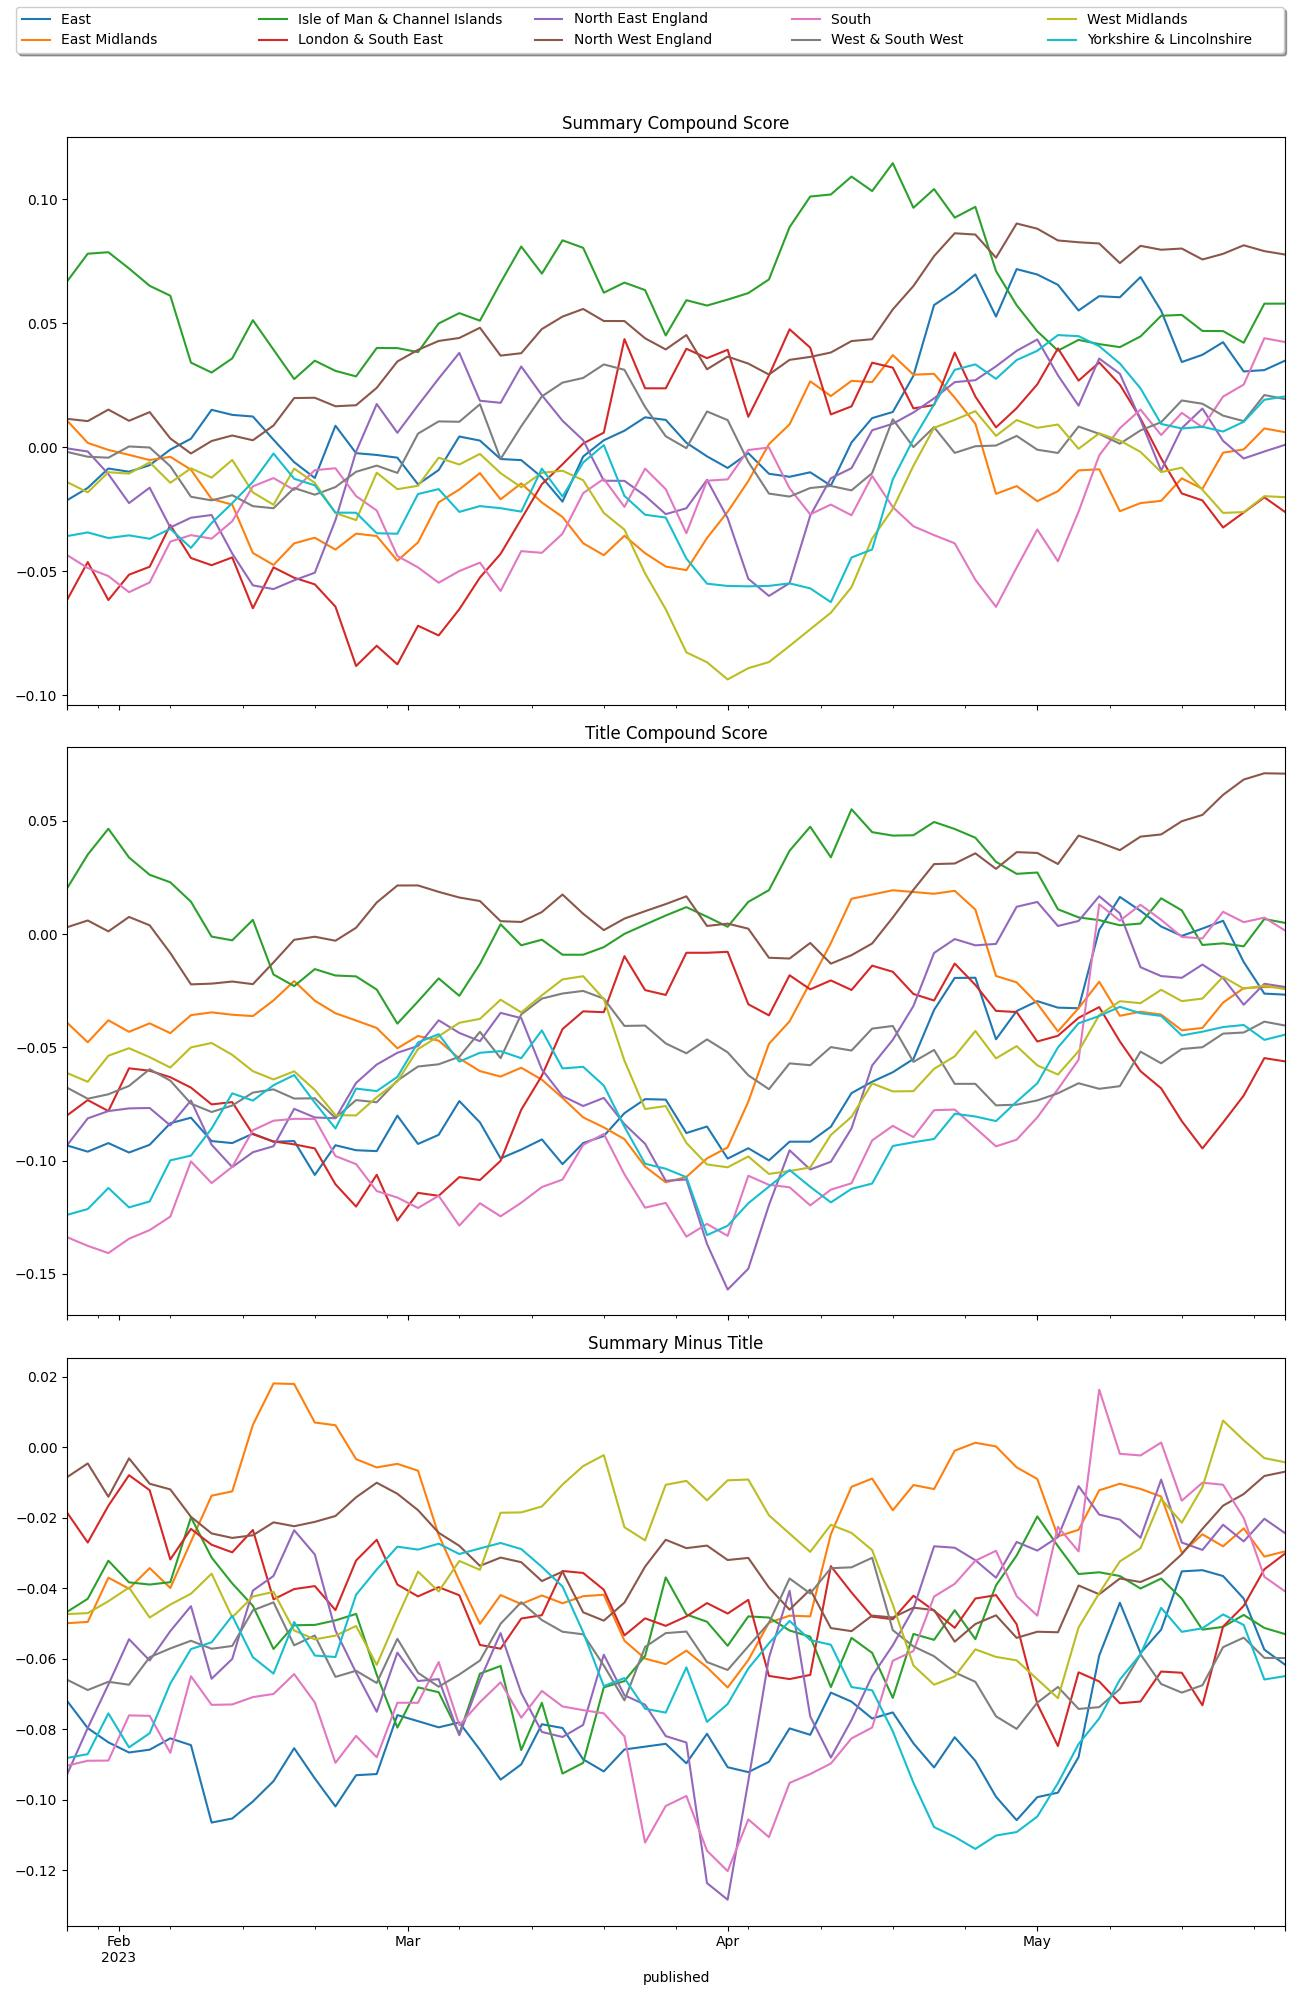
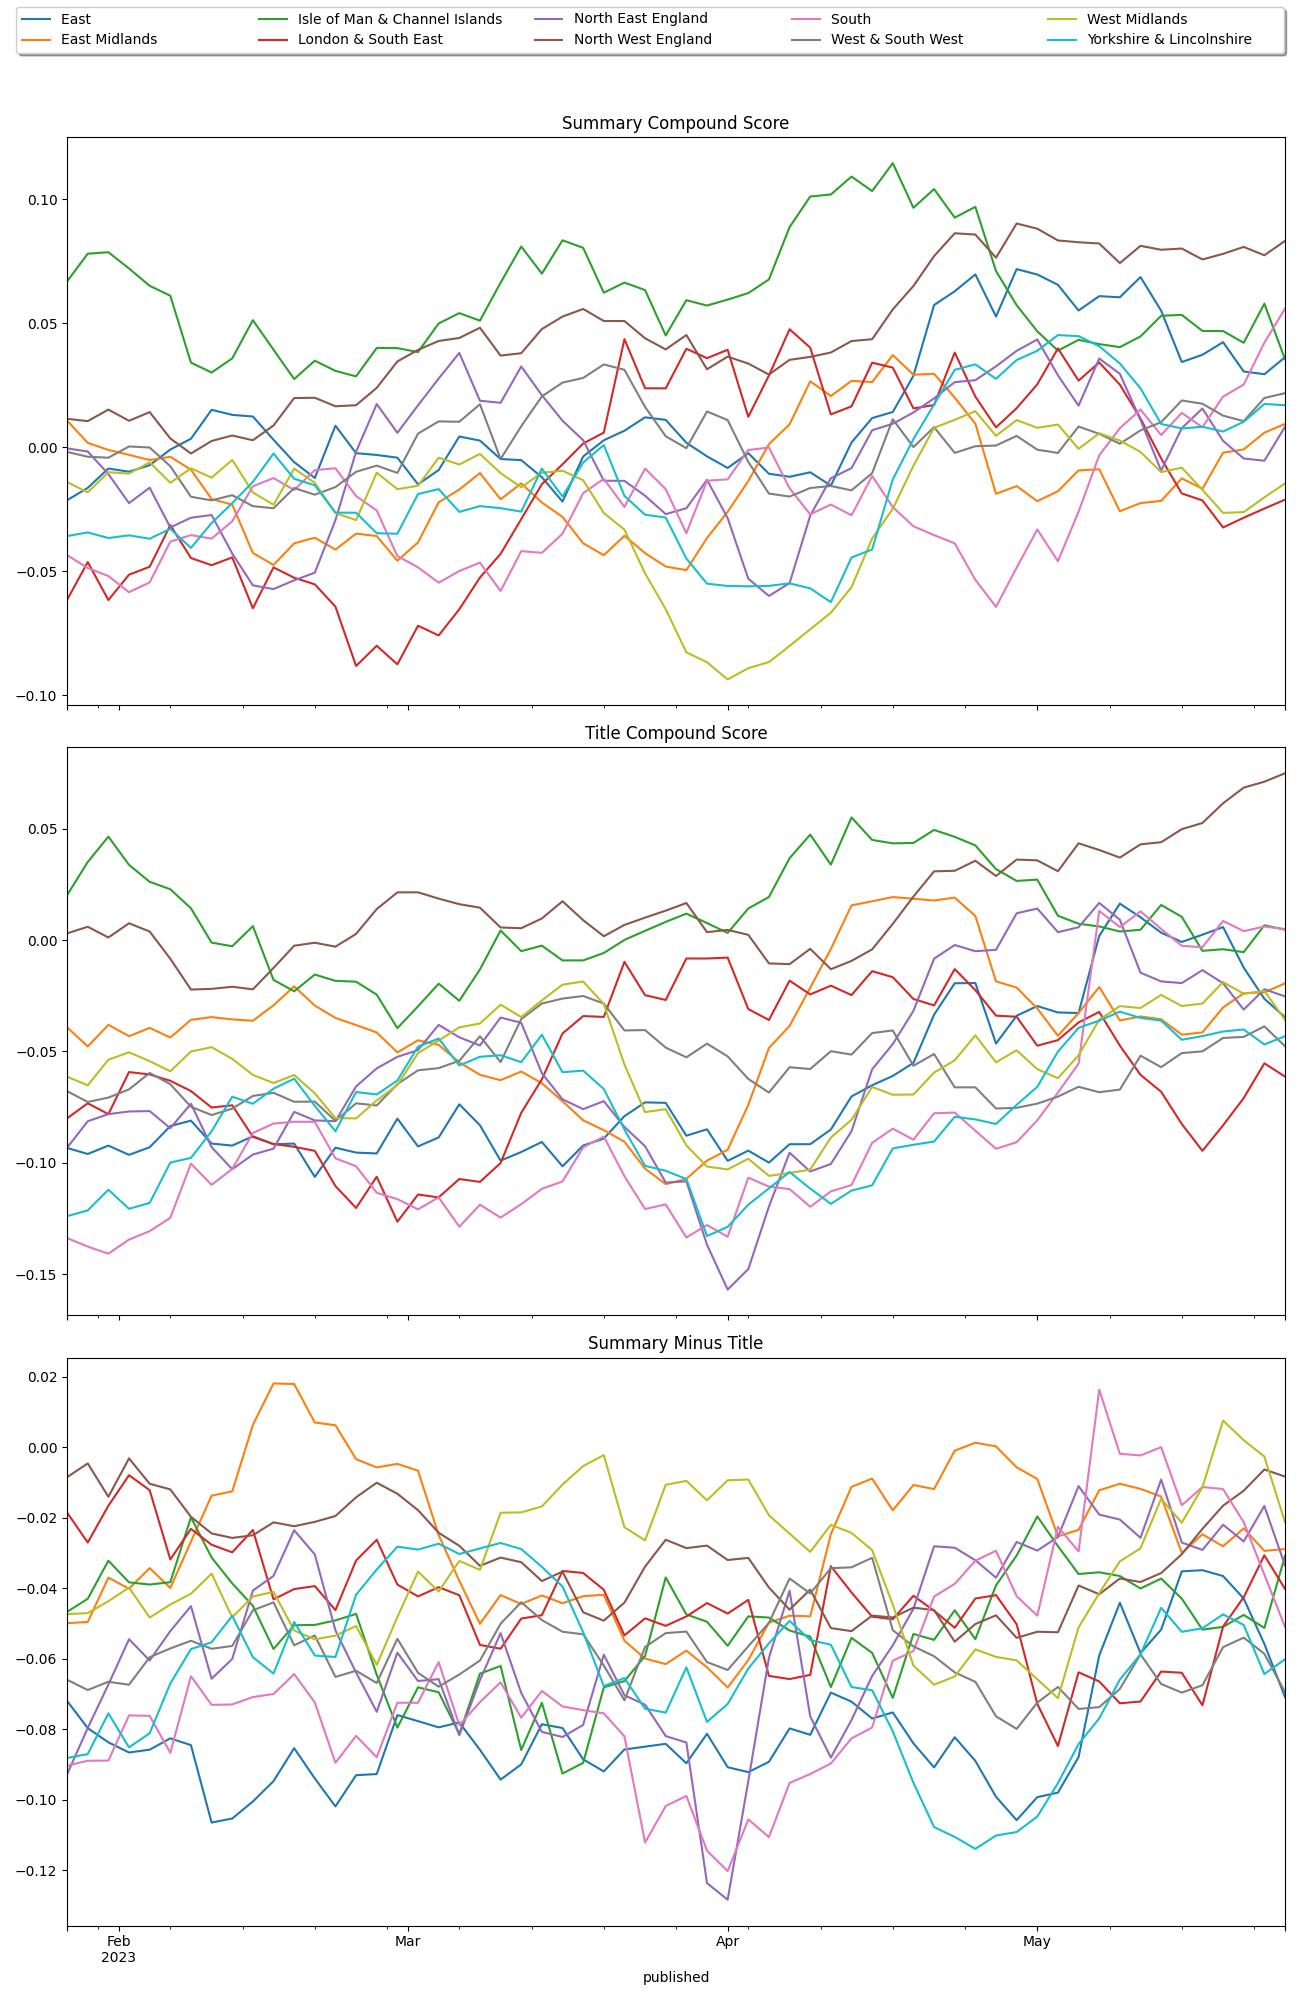
at 2023-05-26 10:47 ran: [Stage: 'complete-basic_report']

diff --git a/reports/complete/latest.md b/reports/complete/latest.md
@@ -1,12 +1,12 @@
-| region                        | published                  | summary                                                                                                                            | title                                                                 | url                                        |   summary_compound_score |   title_compound_score |   summary_minus_title |
-|:------------------------------|:---------------------------|:-----------------------------------------------------------------------------------------------------------------------------------|:----------------------------------------------------------------------|:-------------------------------------------|-------------------------:|-----------------------:|----------------------:|
-| East                          | 2023-05-25 09:04:32        | Luton midfielder Pelly-Ruddock Mpanzu hopes to become the first player to go from non-league to Premier League with the same club. | Mpanzu's 'crazy journey' to brink of Premier League                   | /sport/football/65695212                   |                   0.4215 |                -0.34   |               -0.7615 |
-| East Midlands                 | 2023-05-25 09:01:20        | Firefighters use small electric cutters to carefully retrieve the eight-week-old feline.                                           | Stricken kitten rescued from drainpipe                                | /news/uk-england-nottinghamshire-65707184  |                   0.128  |                -0.128  |               -0.256  |
-| Isle of Man & Channel Islands | 2023-05-25 08:46:54.333000 | The agreement aims to ensure people qualify for free emergency healthcare in Jersey or the UK.                                     | Jersey-UK reciprocal health agreement updated                         | /news/articles/cll14m79dm6o                |                   0.7579 |                 0.4939 |               -0.264  |
-| London & South East           | 2023-05-25 09:24:24.645000 |                                                                                                                                    | 'A great advert for our game' - Brighton praised for Man City display | /sport/articles/ce96rzn3qg5o               |                   0      |                 0.8074 |                0.8074 |
-| North East England            | 2023-05-25 08:19:33.388000 | The 44-year-old man was taken to hospital with serious injuries where he died on Sunday, police say.                               | Cyclist dies two weeks after minibus crash                            | /news/articles/c6p0e2gk5weo                |                  -0.5994 |                -0.4019 |                0.1975 |
-| North West England            | 2023-05-25 09:20:20        | Everton and England midfielder Izzy Christiansen announces her retirement from football at the age of 31.                          | Everton & England midfielder Christiansen retires                     | /sport/football/65702595                   |                   0      |                 0      |                0      |
-| South                         | 2023-05-25 07:55:27        | Police say an investigation is under way to establish how the 54-year-old died.                                                    | Murder arrest after woman found dead in house                         | /news/uk-england-hampshire-65706898        |                  -0.5574 |                -0.9081 |               -0.3507 |
-| West & South West             | 2023-05-25 09:29:35        | Yasmin Kabbara-Dolby got up on stage with the Scottish singer in Bristol.                                                          | Lewis Capaldi invites fan on stage for duet                           | /news/uk-england-bristol-65706777          |                   0      |                 0.3182 |                0.3182 |
-| West Midlands                 | 2023-05-25 08:41:19        | Bunting abounds and a big screen is planned for Saturday's Championship play-off final at Wembley.                                 | Bunting and big screen for Luton's play-off final                     | /news/uk-england-beds-bucks-herts-65706453 |                   0.4404 |                 0      |               -0.4404 |
-| Yorkshire & Lincolnshire      | 2023-05-25 08:50:46        | Bradford City offer a new deal to League Two's top scorer Andy Cook, whose contract expires this summer.                           | Bradford offer new deal to top scorer Cook                            | /sport/football/65697710                   |                   0.2023 |                 0.2023 |                0      |
+| region                        | published                  | summary                                                                                              | title                                              | url                                        |   summary_compound_score |   title_compound_score |   summary_minus_title |
+|:------------------------------|:---------------------------|:-----------------------------------------------------------------------------------------------------|:---------------------------------------------------|:-------------------------------------------|-------------------------:|-----------------------:|----------------------:|
+| East                          | 2023-05-26 09:28:16        | Ahead of their Wembley trip, Luton Town says the target for completion of their new stadium is 2026. | New stadium pictures and plans revealed            | /news/uk-england-beds-bucks-herts-65718990 |                   0      |                 0      |                0      |
+| East Midlands                 | 2023-05-26 08:09:35.643000 |                                                                                                      | Breaking down Sunday's relegation permutations     | /sport/articles/c0dxem88wr2o               |                   0      |                 0      |                0      |
+| Isle of Man & Channel Islands | 2023-05-26 07:51:45        | TT organisers say an overhaul of the race schedule is leading to a shift in fans' travel plans.      | TT travel patterns evolving, organisers say        | /news/world-europe-isle-of-man-65698455    |                   0      |                 0      |                0      |
+| London & South East           | 2023-05-26 09:05:10.806000 |                                                                                                      | De Zerbi's relegation warning                      | /sport/articles/c3gpx3x04lzo               |                   0      |                -0.34   |               -0.34   |
+| North East England            | 2023-05-26 07:13:44        | Redcar and Cleveland council says a number of roads are set to close while the work is carried out.  | Diseased tree felling to take 'several years'      | /news/uk-england-tees-65711166             |                   0.0772 |                 0      |               -0.0772 |
+| North West England            | 2023-05-26 09:27:56.631000 |                                                                                                      | Your thoughts on Thursday's game                   | /sport/articles/cw8nq864309o               |                   0      |                 0      |                0      |
+| South                         | 2023-05-26 08:49:02        | The event inspired by AA Milne's classic Winnie the Pooh books will mark its 40th anniversary.       | World Pooh Sticks Championships set to return      | /news/uk-england-oxfordshire-65719425      |                   0.4939 |                 0.4939 |                0      |
+| West & South West             | 2023-05-26 08:08:24        | Police are appealing for witnesses following the attack in Newton Abbot.                             | Part of man's ear bitten off in assault            | /news/uk-england-devon-65719073            |                  -0.4767 |                -0.5859 |               -0.1092 |
+| West Midlands                 | 2023-05-26 08:38:56        | The Armstrongs were headed to Brazil to meet their grandson but faced queues at Birmingham Airport.  | Delays blamed as family miss flight to meet baby   | /news/uk-england-birmingham-65711213       |                   0      |                -0.5719 |               -0.5719 |
+| Yorkshire & Lincolnshire      | 2023-05-26 09:14:13        | The family are calling the run Rob's victory lap after the success of the Leeds Marathon.            | Rob Burrow's kids to join him for Father's Day run | /news/uk-england-leeds-65718662            |                   0.5719 |                -0.34   |               -0.9119 |
